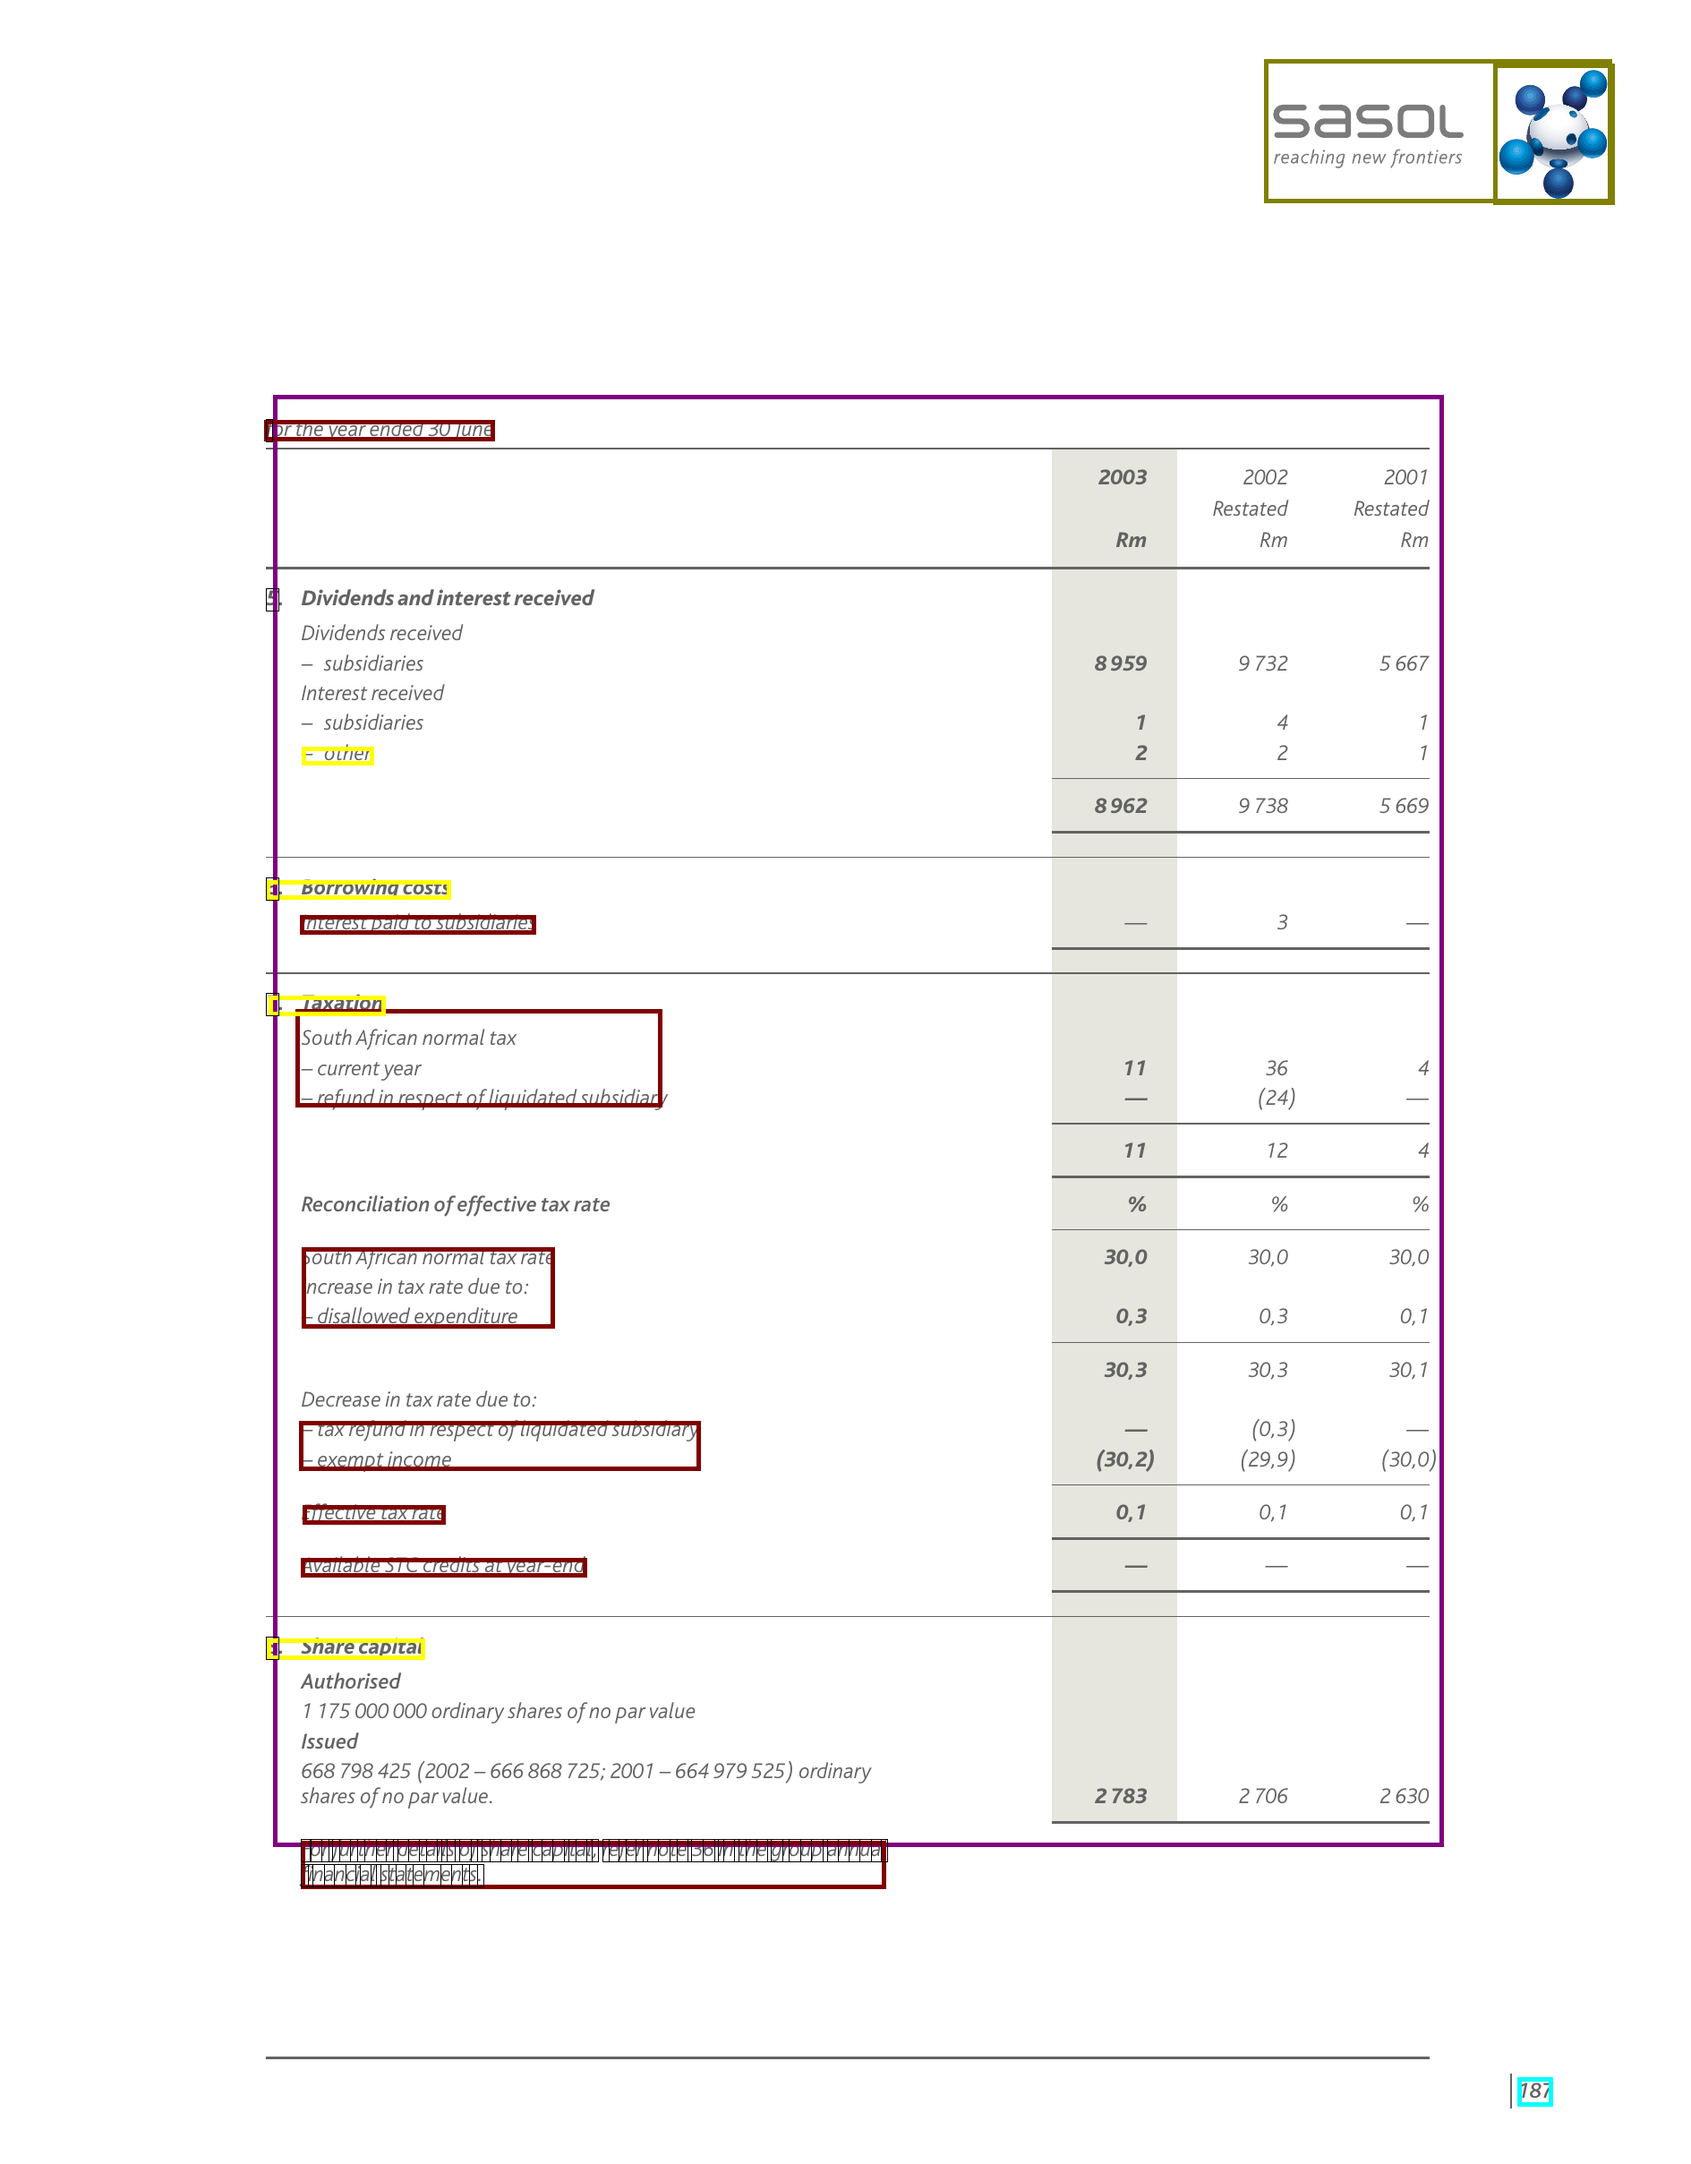
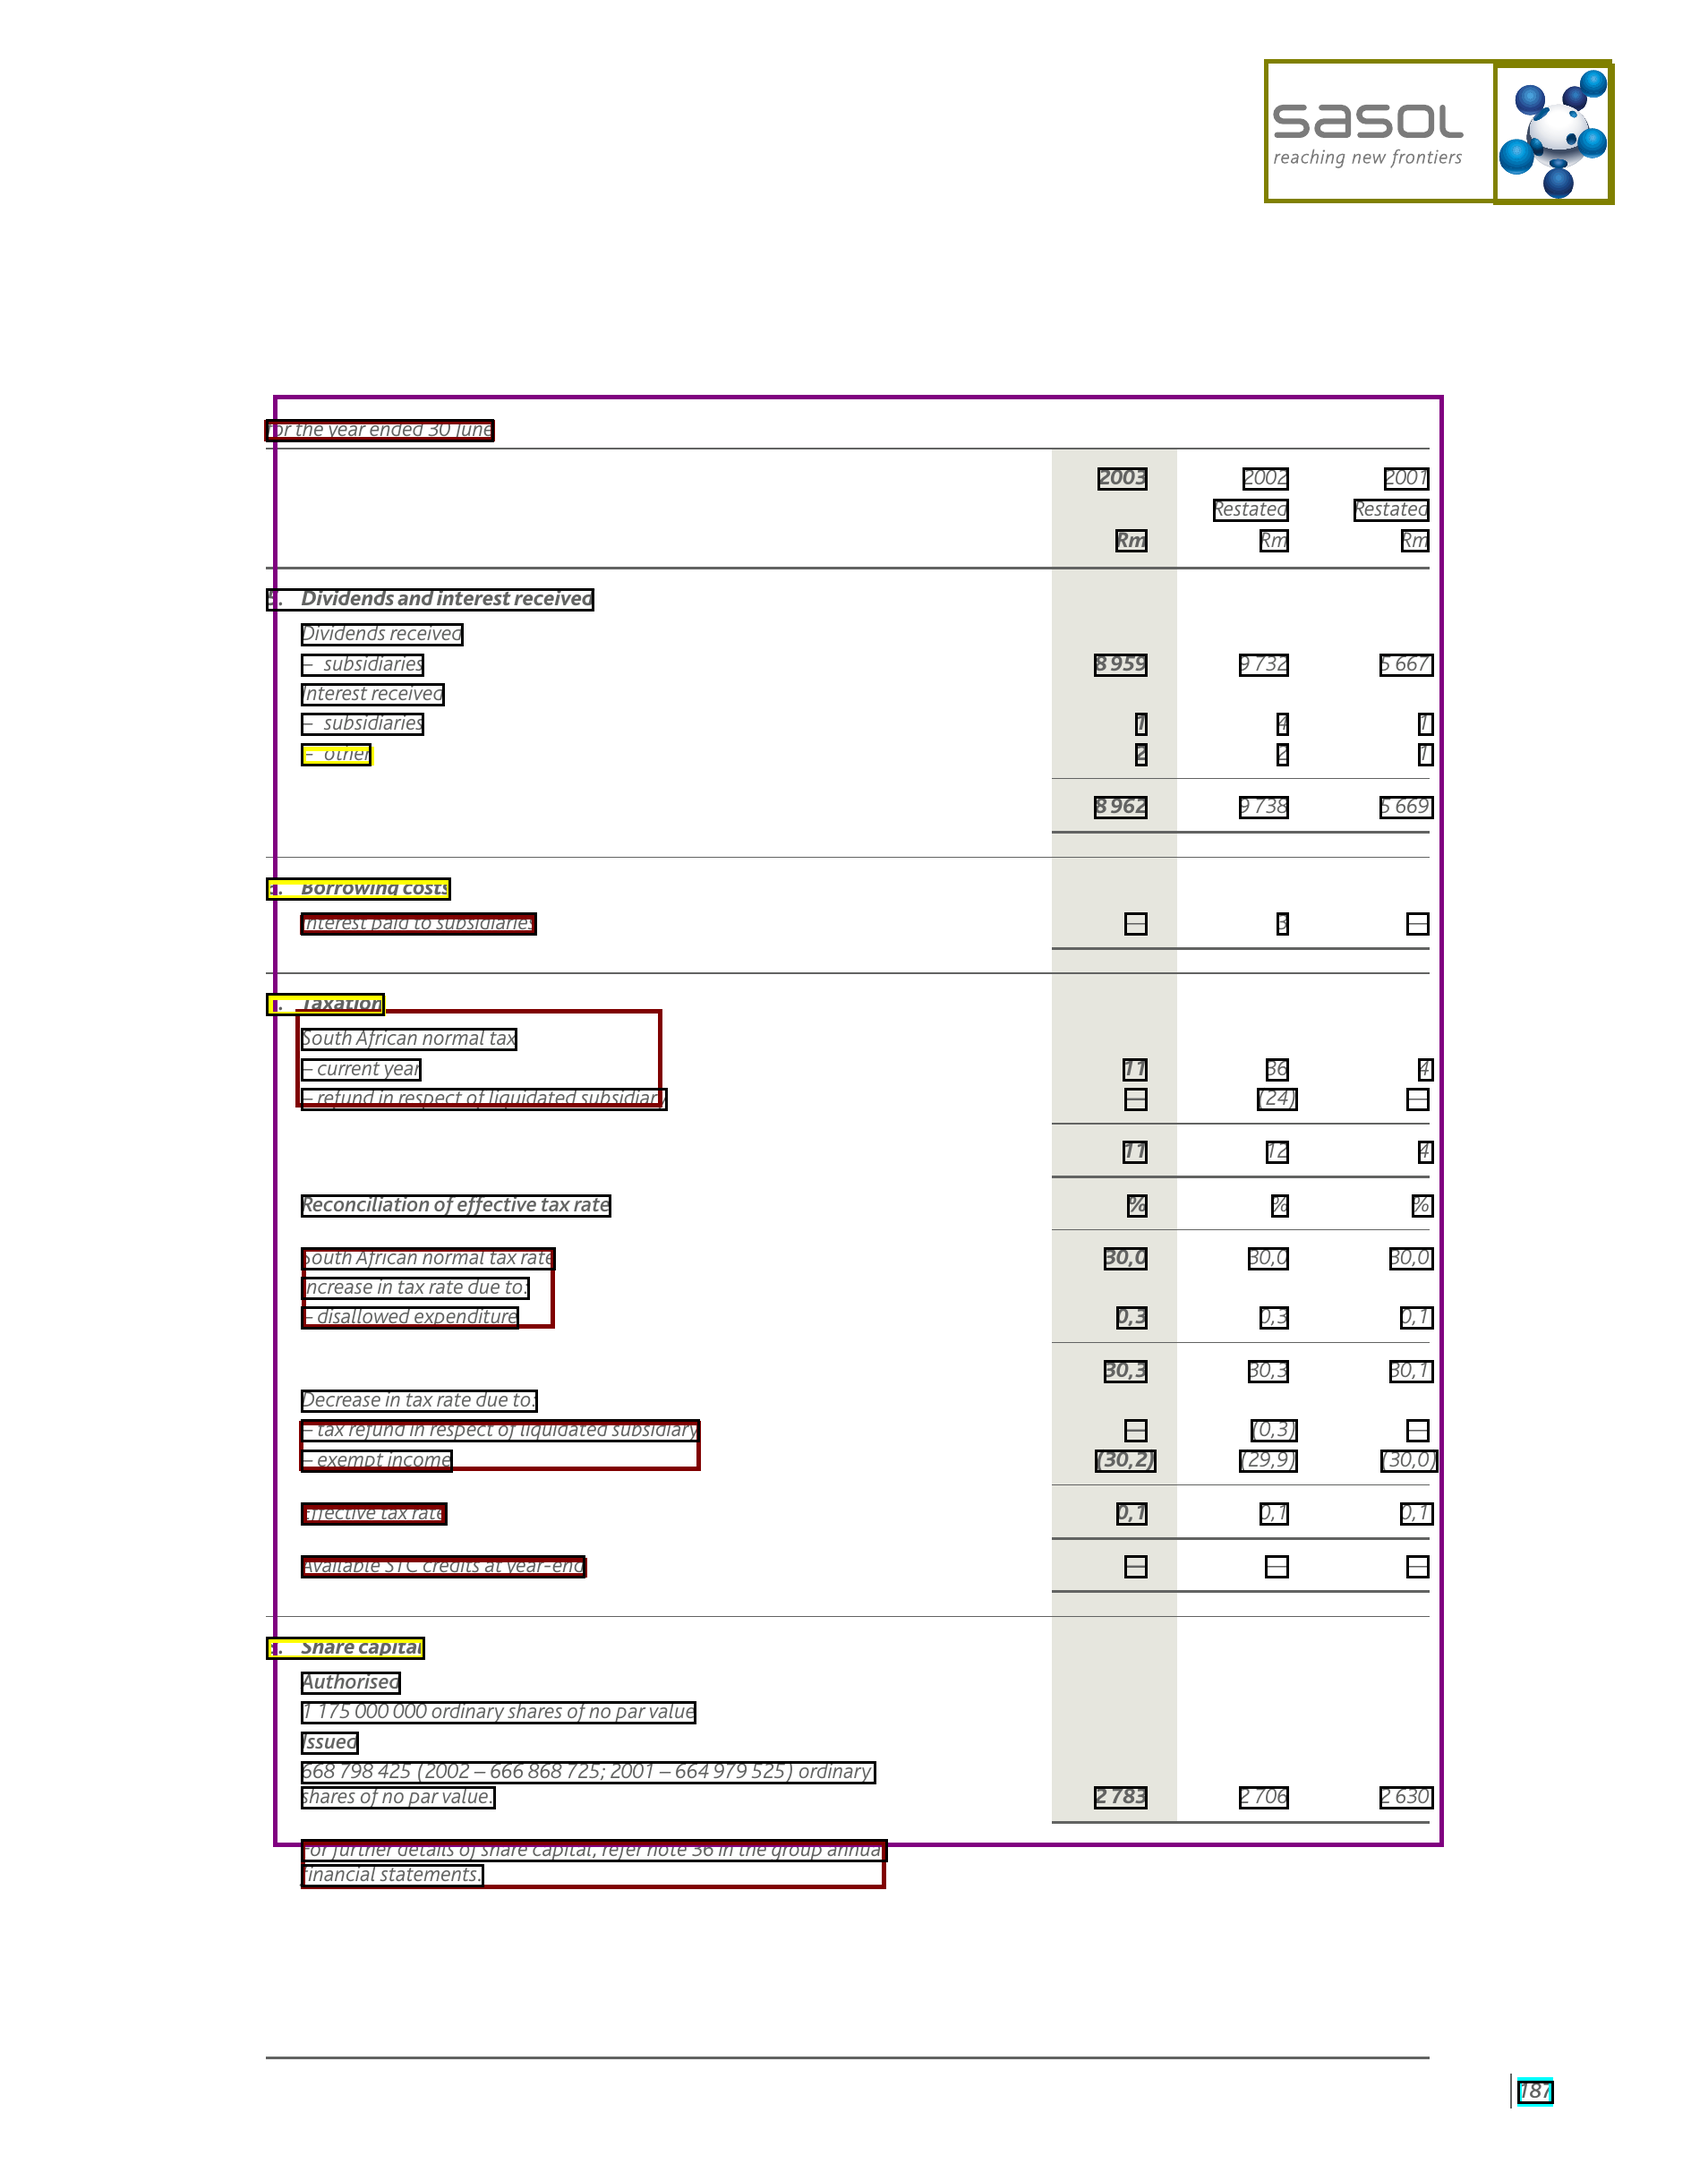
visualize textlines

diff --git a/bacon/bacon.py b/bacon/bacon.py
@@ -2,7 +2,7 @@ from layout_predictor import LayoutPredictor
 from pdf_analyzer import PDFAnalyzer
 from coordinate_helper import (
     convert_bbox_mediabox, 
-    convert_char_bboxes_to_raw_img_size,                        
+    convert_textlines_to_raw_img_size,                        
     convert_layouts_to_raw_img_size,
     compute_overlap
 )
@@ -33,15 +33,14 @@ class bacon:
         overlapped_area = compute_overlap(pred_box, char_box)
         return overlapped_area/char_area < self.overlap_threshold
 
-    def group_up_with_box(self, pred_box, char_boxes):
-        outputs = []
+    def integrate_chars_with_layouts(self, layout, textlines, image_size):
+        layout, textlines = self.scale_raw_img_size(layout, textlines, image_size)
 
-        # filter overlapped char boxes to pred_box
-        no_overlapped_chars = [(char, char_box) for char, char_box in char_boxes if self.is_overlapped_threshold(pred_box, char_box)]
-        return no_overlapped_chars
+        pred_boxes = layout['instances'].pred_boxes
+        pred_categories = layout['instances'].pred_classes
 
-    def integrate_chars_with_layouts(self, bbox_dict_list, layouts, image_sizes):
-        char_boxes_list, layouts = self.scale_raw_img_size(bbox_dict_list, layouts, image_sizes)
+        return layout, textlines
+        """
         outputs = []
         for char_boxes, layout in zip(char_boxes_list, layouts):
             pred_boxes = layout['instances'].pred_boxes
@@ -60,15 +59,12 @@ class bacon:
                     }
                     outputs.append(box_output)
         return outputs
+        """
 
-    def scale_raw_img_size(self, bbox_dict_list, layouts, image_sizes):
-        scaled_char_boxes_list, scaled_layouts = [], []
-        for bbox_dict, layout, image_size in zip(bbox_dict_list, layouts, image_sizes):
-            char_bboxes = convert_char_bboxes_to_raw_img_size(bbox_dict, image_size)
-            layout = convert_layouts_to_raw_img_size(layout, self.pred_image_size, image_size)
-            scaled_char_boxes_list.append(char_bboxes)
-            scaled_layouts.append(layout)
-        return scaled_char_boxes_list, scaled_layouts
+    def scale_raw_img_size(self, layout, textlines, image_size):
+        layout = convert_layouts_to_raw_img_size(layout, self.pred_image_size, image_size)
+        textlines = convert_textlines_to_raw_img_size(textlines, image_size)
+        return layout, textlines
 
     def analyze(self, filename):
         pdf_images = convert_from_path(filename)
@@ -79,15 +75,9 @@ class bacon:
             layout = self.layout_predictor.predict(pdf_image)
             textlines = self.pdf_analyzer.extract_textlines(filename, page_num=i)
             
-            import ipdb; ipdb.set_trace()
             # TODO: integrate results
-            # integrate the results
-            #char_bboxes, layouts = self.integrate_chars_with_layouts(bbox_dict_list, layouts, image_sizes)
-            no_overlapped_chars = self.integrate_chars_with_layouts(bbox_dict_list, layouts, image_sizes)
-            
-            visualize(no_overlapped_chars, layouts[0], pdf_images[0], self.categories, self.colors)
-            #output = self.jsonify(layouts_with_texts)
-            #return output
+            layout, textlines = self.integrate_chars_with_layouts(layout, textlines, image_size)
+            visualize(textlines, layout, pdf_image, self.categories, self.colors)
 
 if __name__ == "__main__":
     bacon = bacon()

diff --git a/bacon/coordinate_helper.py b/bacon/coordinate_helper.py
@@ -1,8 +1,9 @@
-def convert_char_bboxes_to_raw_img_size(bbox_dict, image_size):
-    mediabox = bbox_dict["mediabox"]
-    char_bboxes = bbox_dict["bboxes"]
-    char_bboxes = [(char, convert_bbox_mediabox(bbox, mediabox, image_size))for (char, bbox) in char_bboxes]
-    return char_bboxes
+def convert_textlines_to_raw_img_size(textlines, image_size):
+    return [{
+        "mediabox": textline["mediabox"],
+        "bbox": convert_bbox_mediabox(textline["bbox"], textline["mediabox"], image_size),
+        "text": textline["text"]
+    } for textline in textlines]
 
 def convert_layouts_to_raw_img_size(layout, pred_image_size, image_size):
     layout['instances'].pred_boxes.tensor[:, 0] *= (image_size[0]/pred_image_size[0])

diff --git a/bacon/visualizer.py b/bacon/visualizer.py
@@ -1,6 +1,6 @@
 from PIL import Image, ImageDraw
 
-def visualize(char_bboxes, layout, pdf_image, categories, colors):
+def visualize(textlines, layout, pdf_image, categories, colors):
     """
     visualize single PDF file
     """
@@ -12,6 +12,7 @@ def visualize(char_bboxes, layout, pdf_image, categories, colors):
         cat_name = categories[pred_category.item()]
         draw.rectangle(pred_box.tolist(), outline=colors[pred_category.item()], width=5)
 
-    for char, bbox in char_bboxes:
-        draw.rectangle(bbox, outline=(0,0,0), width=1)
+    for textline in textlines:
+        bbox = textline["bbox"]
+        draw.rectangle(bbox, outline=(0,0,0), width=3)
     pdf_image.save("./test.png")

diff --git a/bacon/pdf_analyzer.py b/bacon/pdf_analyzer.py
@@ -17,6 +17,7 @@ class PDFAnalyzer:
                             text = text_line.get_text()
                             bbox = text_line.bbox
                             text_lines.append({
+                                "mediabox": page.bbox[2:], # (w, h)
                                 "text": text,
                                 "bbox": bbox
                             })
